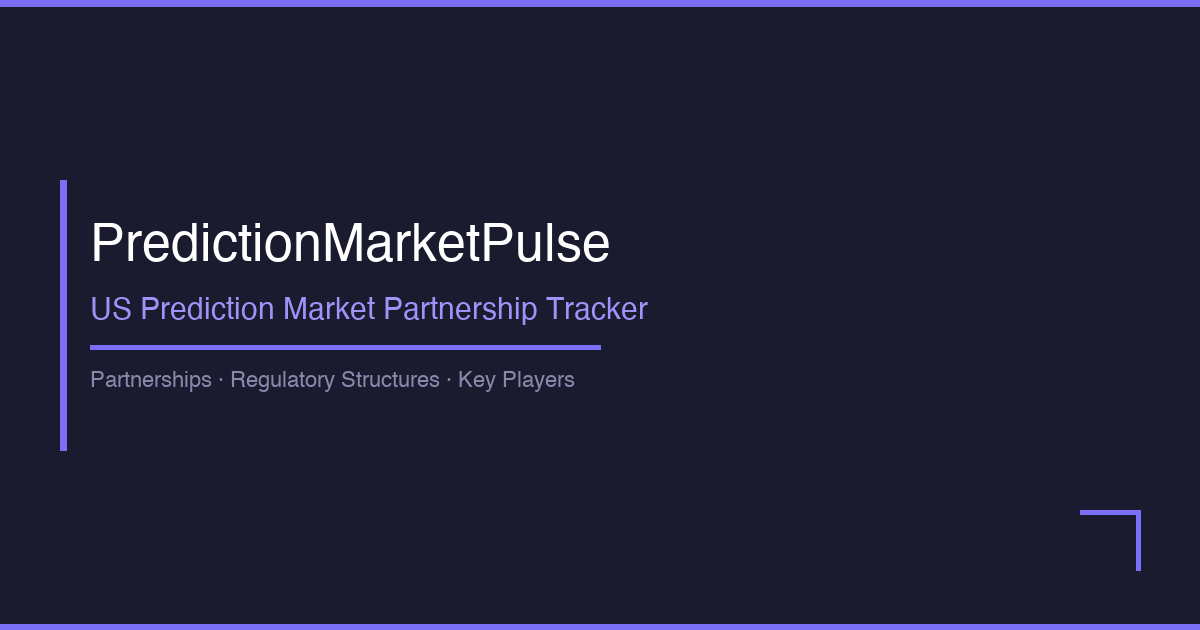
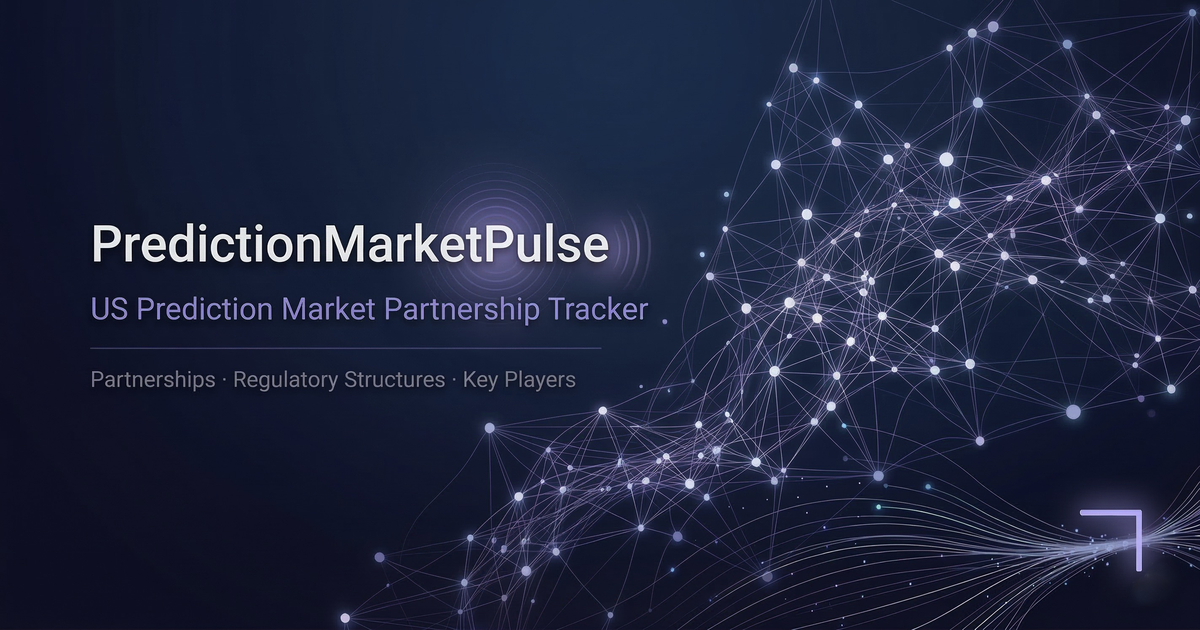
Add Pulse glow effect in dark mode and update OG image
Splits "Pulse" into its own styled span with a white/purple glow
in dark mode, keeping the original gradient in light mode. Replaces
the generated OG image with a new branded design.

diff --git a/index.html b/index.html
@@ -502,6 +502,24 @@
             background-clip: text;
         }
 
+        .pulse-glow {
+            background: linear-gradient(135deg, #667eea 0%, #764ba2 100%);
+            -webkit-background-clip: text;
+            -webkit-text-fill-color: transparent;
+            background-clip: text;
+        }
+
+        .dark .pulse-glow {
+            background: none;
+            -webkit-background-clip: unset;
+            -webkit-text-fill-color: #fff;
+            background-clip: unset;
+            text-shadow:
+                0 0 7px rgba(255, 255, 255, 0.7),
+                0 0 20px rgba(124, 111, 247, 0.5),
+                0 0 40px rgba(124, 111, 247, 0.3);
+        }
+
         .dark .hero-gradient {
             background: linear-gradient(135deg, #818cf8 0%, #a78bfa 100%);
             -webkit-background-clip: text;
@@ -1104,7 +1122,7 @@
                     <div class="icon-badge p-2.5 rounded-xl w-10 h-10 flex items-center justify-center transition-transform group-hover:scale-110">
                         <span class="material-icons-outlined text-white">trending_up</span>
                     </div>
-                    <span class="ml-3 font-bold text-xl bg-gradient-to-r from-indigo-600 to-purple-600 dark:from-indigo-400 dark:to-purple-400 bg-clip-text text-transparent">PredictionMarketPulse</span>
+                    <span class="ml-3 font-bold text-xl bg-gradient-to-r from-indigo-600 to-purple-600 dark:from-indigo-400 dark:to-purple-400 bg-clip-text text-transparent">PredictionMarket</span><span class="ml-0 font-bold text-xl pulse-glow">Pulse</span>
                 </div>
 
                 <!-- Desktop Navigation -->
@@ -1739,7 +1757,7 @@
             <div id="view-about" class="view-content">
                 <div class="text-center mb-12">
                     <h1 class="text-4xl sm:text-6xl font-bold tracking-tight text-slate-900 dark:text-slate-100 mb-6">
-                        About <span class="hero-gradient">PredictionMarketPulse</span>
+                        About <span class="hero-gradient">PredictionMarket</span><span class="pulse-glow">Pulse</span>
                     </h1>
                 </div>
                 
